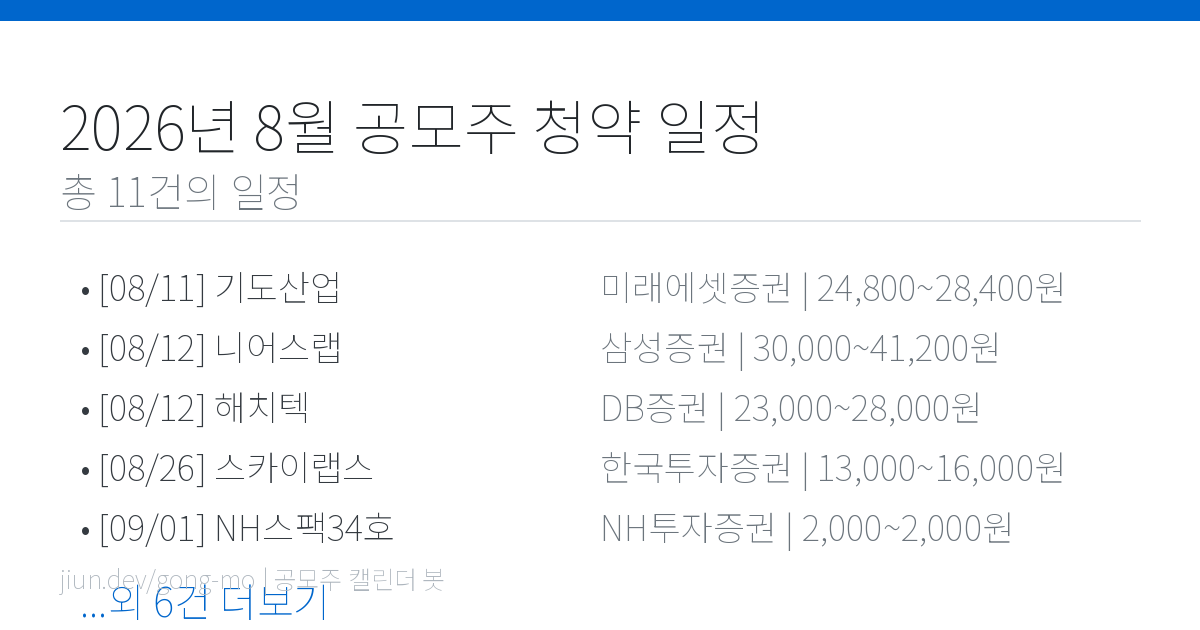
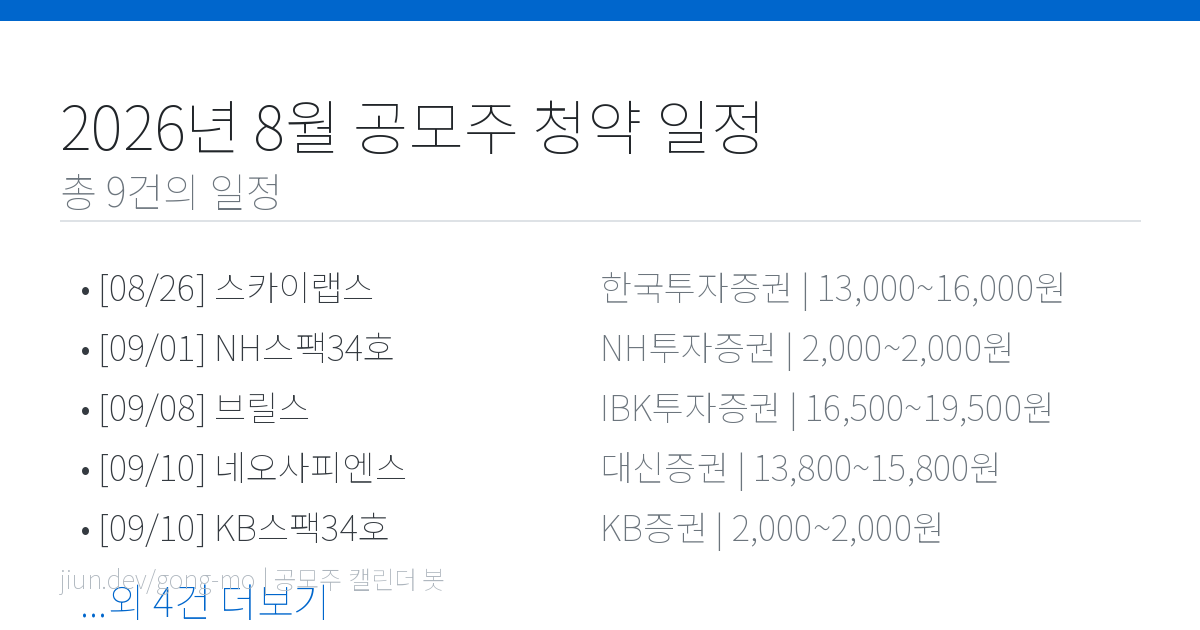
Update IPO data - 2026-08-15 18:24

diff --git a/docs/index.html b/docs/index.html
@@ -3,13 +3,13 @@
 <head>
     <meta charset="UTF-8">
     <meta name="viewport" content="width=device-width, initial-scale=1.0">
-    <title>8월 공모주 캘린더 - 기도산업 외 10건</title>
+    <title>8월 공모주 캘린더 - 스카이랩스 외 8건</title>
 
     <!-- Open Graph / Facebook -->
     <meta property="og:type" content="website">
     <meta property="og:url" content="https://jiun.dev/gong-mo/">
-    <meta property="og:title" content="8월 공모주 캘린더 - 기도산업 외 10건">
-    <meta property="og:description" content="8월 공모주 일정: [기도산업, 니어스랩, 해치텍] 등 11건의 청약 일정을 확인하세요. 대한민국 공모주 청약 일정과 IPO 캘린더 정보를 확인하고, 구글 캘린더에 추가하여 놓치지 마세요.">
+    <meta property="og:title" content="8월 공모주 캘린더 - 스카이랩스 외 8건">
+    <meta property="og:description" content="8월 공모주 일정: [스카이랩스, NH스팩34호, 브릴스] 등 9건의 청약 일정을 확인하세요. 대한민국 공모주 청약 일정과 IPO 캘린더 정보를 확인하고, 구글 캘린더에 추가하여 놓치지 마세요.">
     <meta property="og:image" content="https://jiun.dev/gong-mo/og-image.png">
     <meta property="og:image:type" content="image/png">
     <meta property="og:image:width" content="1200">
@@ -19,11 +19,11 @@
     <!-- Twitter -->
     <meta name="twitter:card" content="summary_large_image">
     <meta name="twitter:url" content="https://jiun.dev/gong-mo/">
-    <meta name="twitter:title" content="8월 공모주 캘린더 - 기도산업 외 10건">
-    <meta name="twitter:description" content="8월 공모주 일정: [기도산업, 니어스랩, 해치텍] 등 11건의 청약 일정을 확인하세요. 대한민국 공모주 청약 일정과 IPO 캘린더 정보를 확인하고, 구글 캘린더에 추가하여 놓치지 마세요.">
+    <meta name="twitter:title" content="8월 공모주 캘린더 - 스카이랩스 외 8건">
+    <meta name="twitter:description" content="8월 공모주 일정: [스카이랩스, NH스팩34호, 브릴스] 등 9건의 청약 일정을 확인하세요. 대한민국 공모주 청약 일정과 IPO 캘린더 정보를 확인하고, 구글 캘린더에 추가하여 놓치지 마세요.">
     <meta name="twitter:image" content="https://jiun.dev/gong-mo/og-image.png">
 
-    <meta name="description" content="8월 공모주 일정: [기도산업, 니어스랩, 해치텍] 등 11건의 청약 일정을 확인하세요. 대한민국 공모주 청약 일정과 IPO 캘린더 정보를 확인하고, 구글 캘린더에 추가하여 놓치지 마세요.">
+    <meta name="description" content="8월 공모주 일정: [스카이랩스, NH스팩34호, 브릴스] 등 9건의 청약 일정을 확인하세요. 대한민국 공모주 청약 일정과 IPO 캘린더 정보를 확인하고, 구글 캘린더에 추가하여 놓치지 마세요.">
     <meta name="keywords" content="공모주, IPO, 청약, 주식, 캘린더, 일정">
     <link rel="canonical" href="https://jiun.dev/gong-mo/">
     
@@ -32,7 +32,7 @@
     <link rel="apple-touch-icon" href="icon-192.png">
 
     <script type="application/ld+json">
-        [{"@context": "https://schema.org", "@type": "WebSite", "name": "공모주 캘린더", "description": "8월 공모주 일정: [기도산업, 니어스랩, 해치텍] 등 11건의 청약 일정을 확인하세요. 대한민국 공모주 청약 일정과 IPO 캘린더 정보를 확인하고, 구글 캘린더에 추가하여 놓치지 마세요.", "url": "https://jiun.dev/gong-mo/"}, {"@context": "https://schema.org", "@type": "Event", "name": "기도산업 공모주 청약", "description": "기도산업 IPO 청약 일정. 공모가: 24,800~28,400원", "startDate": "2026-08-11", "endDate": "2026-08-12", "location": {"@type": "Place", "name": "미래에셋증권", "address": "온라인 청약"}, "eventStatus": "https://schema.org/EventScheduled", "eventAttendanceMode": "https://schema.org/OnlineEventAttendanceMode"}, {"@context": "https://schema.org", "@type": "Event", "name": "니어스랩 공모주 청약", "description": "니어스랩 IPO 청약 일정. 공모가: 30,000~41,200원", "startDate": "2026-08-12", "endDate": "2026-08-13", "location": {"@type": "Place", "name": "삼성증권", "address": "온라인 청약"}, "eventStatus": "https://schema.org/EventScheduled", "eventAttendanceMode": "https://schema.org/OnlineEventAttendanceMode"}, {"@context": "https://schema.org", "@type": "Event", "name": "해치텍 공모주 청약", "description": "해치텍 IPO 청약 일정. 공모가: 23,000~28,000원", "startDate": "2026-08-12", "endDate": "2026-08-13", "location": {"@type": "Place", "name": "DB증권", "address": "온라인 청약"}, "eventStatus": "https://schema.org/EventScheduled", "eventAttendanceMode": "https://schema.org/OnlineEventAttendanceMode"}, {"@context": "https://schema.org", "@type": "Event", "name": "스카이랩스 공모주 청약", "description": "스카이랩스 IPO 청약 일정. 공모가: 13,000~16,000원", "startDate": "2026-08-26", "endDate": "2026-08-27", "location": {"@type": "Place", "name": "한국투자증권", "address": "온라인 청약"}, "eventStatus": "https://schema.org/EventScheduled", "eventAttendanceMode": "https://schema.org/OnlineEventAttendanceMode"}, {"@context": "https://schema.org", "@type": "Event", "name": "NH스팩34호 공모주 청약", "description": "NH스팩34호 IPO 청약 일정. 공모가: 2,000~2,000원", "startDate": "2026-09-01", "endDate": "2026-09-02", "location": {"@type": "Place", "name": "NH투자증권", "address": "온라인 청약"}, "eventStatus": "https://schema.org/EventScheduled", "eventAttendanceMode": "https://schema.org/OnlineEventAttendanceMode"}]
+        [{"@context": "https://schema.org", "@type": "WebSite", "name": "공모주 캘린더", "description": "8월 공모주 일정: [스카이랩스, NH스팩34호, 브릴스] 등 9건의 청약 일정을 확인하세요. 대한민국 공모주 청약 일정과 IPO 캘린더 정보를 확인하고, 구글 캘린더에 추가하여 놓치지 마세요.", "url": "https://jiun.dev/gong-mo/"}, {"@context": "https://schema.org", "@type": "Event", "name": "스카이랩스 공모주 청약", "description": "스카이랩스 IPO 청약 일정. 공모가: 13,000~16,000원", "startDate": "2026-08-26", "endDate": "2026-08-27", "location": {"@type": "Place", "name": "한국투자증권", "address": "온라인 청약"}, "eventStatus": "https://schema.org/EventScheduled", "eventAttendanceMode": "https://schema.org/OnlineEventAttendanceMode"}, {"@context": "https://schema.org", "@type": "Event", "name": "NH스팩34호 공모주 청약", "description": "NH스팩34호 IPO 청약 일정. 공모가: 2,000~2,000원", "startDate": "2026-09-01", "endDate": "2026-09-02", "location": {"@type": "Place", "name": "NH투자증권", "address": "온라인 청약"}, "eventStatus": "https://schema.org/EventScheduled", "eventAttendanceMode": "https://schema.org/OnlineEventAttendanceMode"}, {"@context": "https://schema.org", "@type": "Event", "name": "브릴스 공모주 청약", "description": "브릴스 IPO 청약 일정. 공모가: 16,500~19,500원", "startDate": "2026-09-08", "endDate": "2026-09-09", "location": {"@type": "Place", "name": "IBK투자증권", "address": "온라인 청약"}, "eventStatus": "https://schema.org/EventScheduled", "eventAttendanceMode": "https://schema.org/OnlineEventAttendanceMode"}, {"@context": "https://schema.org", "@type": "Event", "name": "네오사피엔스 공모주 청약", "description": "네오사피엔스 IPO 청약 일정. 공모가: 13,800~15,800원", "startDate": "2026-09-10", "endDate": "2026-09-11", "location": {"@type": "Place", "name": "대신증권", "address": "온라인 청약"}, "eventStatus": "https://schema.org/EventScheduled", "eventAttendanceMode": "https://schema.org/OnlineEventAttendanceMode"}, {"@context": "https://schema.org", "@type": "Event", "name": "KB스팩34호 공모주 청약", "description": "KB스팩34호 IPO 청약 일정. 공모가: 2,000~2,000원", "startDate": "2026-09-10", "endDate": "2026-09-11", "location": {"@type": "Place", "name": "KB증권", "address": "온라인 청약"}, "eventStatus": "https://schema.org/EventScheduled", "eventAttendanceMode": "https://schema.org/OnlineEventAttendanceMode"}]
     </script>
     
     <!-- Google tag (gtag.js) -->
